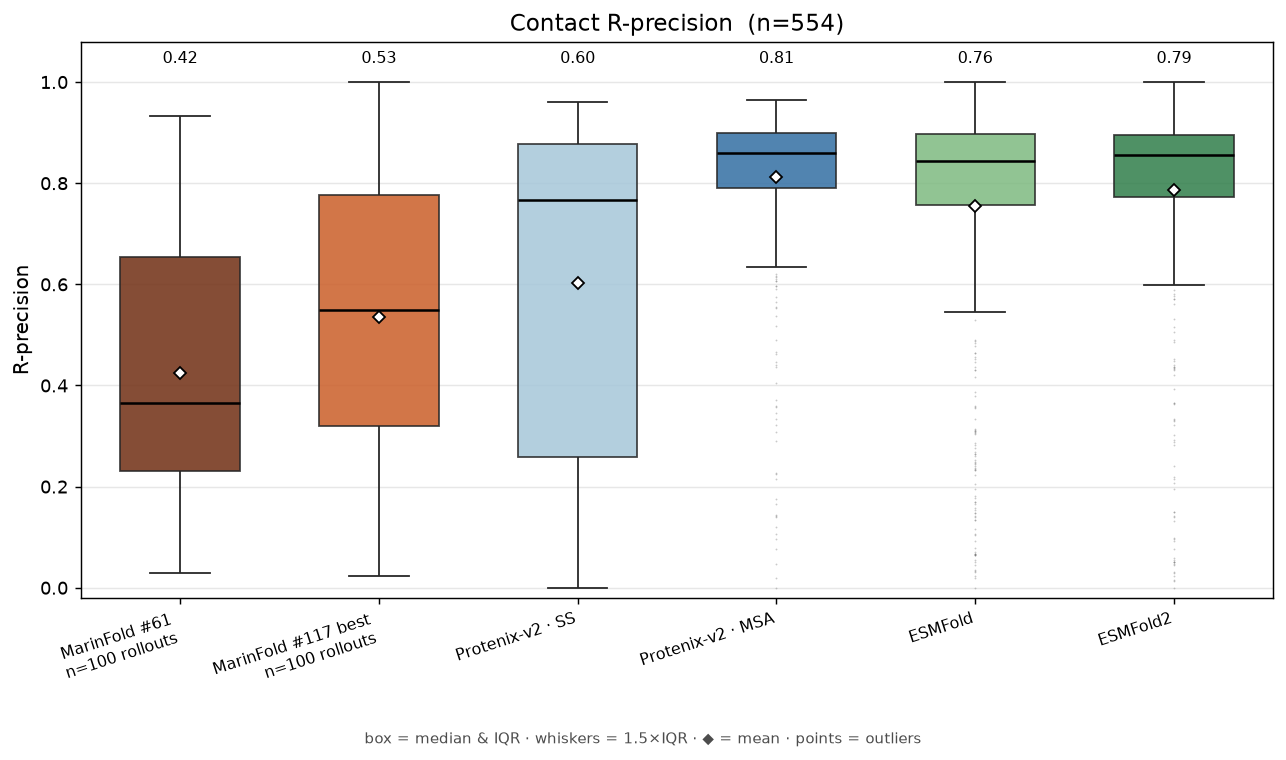
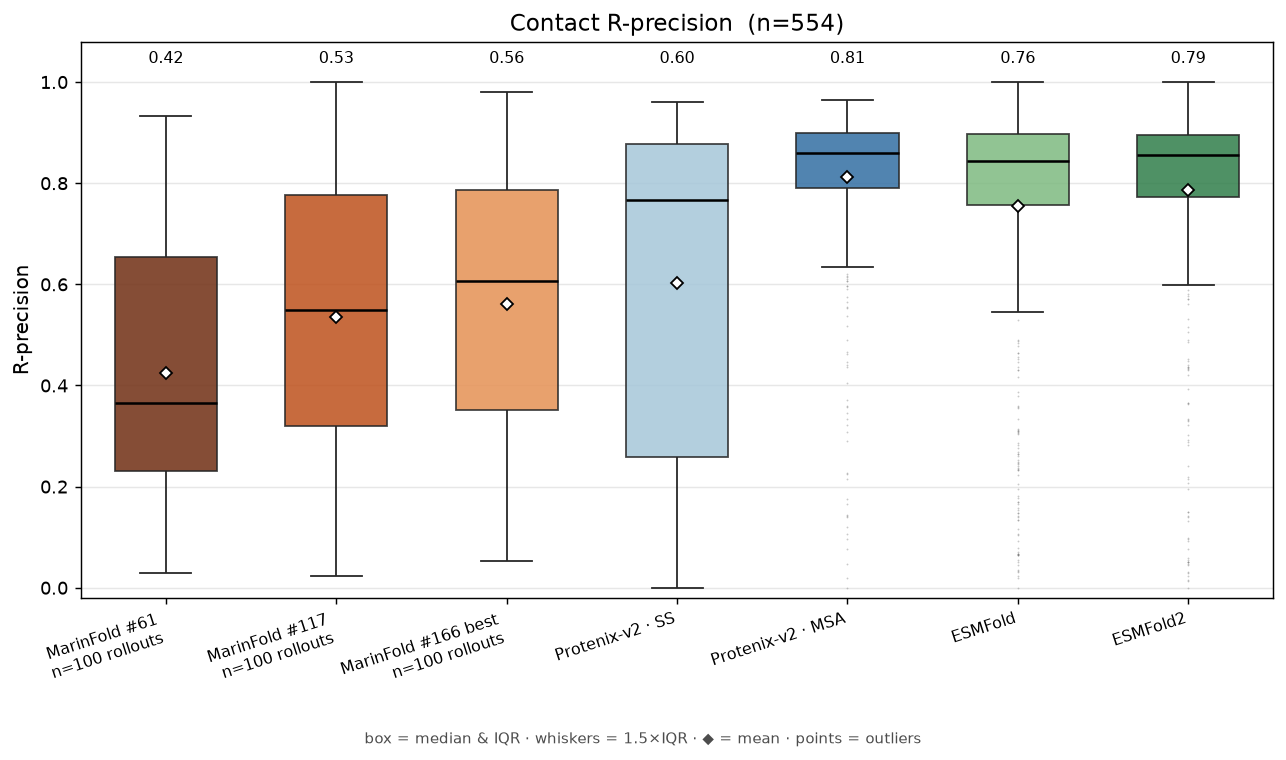
README: refresh the performance figure with #166
The headline figure stopped at #117 (0.535); #166's AA augmentation has since
taken the frontier at 0.562. Adds it as a third MarinFold bar rather than
replacing #117 — 0.42 -> 0.53 -> 0.56 against the structure predictors is the
progress story the figure exists to tell.

plot_where_we_stand.py now takes several --rollout-csv paths, since the newest
checkpoint's per-protein rows live in whichever experiment scored it (here
exp166's), and its docstring says what to do when a new model takes the
frontier. AUC headline updated 0.932 -> 0.939, which puts us 0.002 behind
Protenix-v2+MSA.

Also fixes the default-model claims this invalidated, and two that were
already wrong: the Try-it-out section named exp120 as the default while the
CLI text below it named exp75, and a note said #117 "has not been exported to
the bucket yet" -- it has, and #166 is now the default. The rollout example
pointed at exp75.

exp82's 2026-07-27 refresh section is a dated record, so its table is left as
written with a note that the committed figure has since gained the #166 bar.

The three Colab bullets still say exp75 because the notebooks still pin exp75;
changing the text without the notebooks would make the README wrong. Dropped
only the stale "our current best" from the first one.

diff --git a/experiments/exp82_evals_contacts_v1_contact_prediction/plot_where_we_stand.py b/experiments/exp82_evals_contacts_v1_contact_prediction/plot_where_we_stand.py
@@ -5,17 +5,25 @@
 
 A single aggregate boxplot panel (range = all, sep>=6) putting MarinFold's best
 inference — **rollout+resample**, n=100 — next to the structure predictors, for
-two checkpoints: the #61/#75 sweep winner the project has been quoting, and the
-current best model from Eric's #117 sweep.
+three checkpoints: the #61/#75 sweep winner the project quoted first, the #117
+sweep best, and #166's AA-augmentation continue-train of #117 (the current
+best). Three bars rather than one because the trajectory is the point.
 
-Reads exp89's committed per-protein table for the structure predictors and the
-rollout rows emitted by ``build_rollout_rows.py`` for the MarinFold bars; both
-are scored by exp89's metric implementation, so every bar is comparable.
+Reads exp89's committed per-protein table for the structure predictors and
+per-protein rollout rows for the MarinFold bars — from this experiment's
+``build_rollout_rows.py`` output and from whichever experiment scored a newer
+checkpoint (``--rollout-csv`` takes several). Everything is scored by exp89's
+metric implementation, so every bar is comparable.
 Style follows exp89 ``plot.py``'s ``plot_single_panel``.
+
+**When a new model takes the frontier**, add its rows CSV to ``--rollout-csv``
+and one entry to ``CONFIGS`` — the model string is a value inside that file.
+Keep the older bars: this figure is the project README's progress story.
 
     uv run python plot_where_we_stand.py \
         --exp89-csv <exp89>/data/contact_precision_all.csv \
         --rollout-csv data/where_we_stand_rows.csv.gz \
+                      <exp166>/data/exp166_rows.csv.gz \
         --out plots/where_we_stand_rprecision.png
 """
 from __future__ import annotations
@@ -38,7 +46,9 @@ CONFIGS = [
     ("marinfold-cv1-exp75-rollout", "single_seq", "lm",
      "MarinFold #61\nn=100 rollouts", "#7f2704"),
     ("marinfold-cv1-exp117-rollout", "single_seq", "lm",
-     "MarinFold #117 best\nn=100 rollouts", "#e6550d"),
+     "MarinFold #117\nn=100 rollouts", "#d94801"),
+    ("exp166_aaaug_step35679", "single_seq", "lm",
+     "MarinFold #166 best\nn=100 rollouts", "#fd8d3c"),
     ("protenix-v2", "single_seq", "structure", "Protenix-v2 · SS", "#9ecae1"),
     ("protenix-v2", "msa", "structure", "Protenix-v2 · MSA", "#2171b5"),
     ("esmfold", "single_seq", "structure", "ESMFold", "#74c476"),
@@ -51,8 +61,9 @@ def _vals(df, model, mode, predictor):
     return s["precision"].to_numpy(dtype=float)
 
 
-def main(exp89_csv: Path, rollout_csv: Path, out: Path) -> None:
-    df = pd.concat([pd.read_csv(exp89_csv), pd.read_csv(rollout_csv)], ignore_index=True)
+def main(exp89_csv: Path, rollout_csvs: list[Path], out: Path) -> None:
+    df = pd.concat([pd.read_csv(exp89_csv)] + [pd.read_csv(c) for c in rollout_csvs],
+                   ignore_index=True)
     sub = df[(df["cut"] == "R") & (df["range"] == "all")]
     labels = [c[3] for c in CONFIGS]
     palette = {c[3]: c[4] for c in CONFIGS}
@@ -93,11 +104,13 @@ def main(exp89_csv: Path, rollout_csv: Path, out: Path) -> None:
     fig.savefig(out, dpi=130, bbox_inches="tight")
     out.with_suffix(out.suffix + ".meta.json").write_text(json.dumps(
         {"script": "plot_where_we_stand.py",
-         "args": ["--exp89-csv", str(exp89_csv), "--rollout-csv", str(rollout_csv)],
+         "args": ["--exp89-csv", str(exp89_csv),
+                  "--rollout-csv", *[str(c) for c in rollout_csvs]],
          "means": means, "n": counts,
          "caption": ("Contact R-precision (all sep>=6, n=554): MarinFold rollout+resample "
-                     "(n=100, temperature 1.0 / top-p 0.95 / no top-k) for the #61/#75 model "
-                     "and the current #117 sweep best, vs Protenix-v2 / ESMFold / ESMFold2.")},
+                     "(n=100, temperature 1.0 / top-p 0.95 / no top-k) for the #61/#75 model, "
+                     "the #117 sweep best and the current best #166, vs "
+                     "Protenix-v2 / ESMFold / ESMFold2.")},
         indent=2))
     print(f"wrote {out}  means: " + ", ".join(f"{k.replace(chr(10), ' ')}={v:.3f}"
                                               for k, v in means.items()))
@@ -106,7 +119,8 @@ def main(exp89_csv: Path, rollout_csv: Path, out: Path) -> None:
 if __name__ == "__main__":
     ap = argparse.ArgumentParser()
     ap.add_argument("--exp89-csv", type=Path, required=True)
-    ap.add_argument("--rollout-csv", type=Path, required=True)
+    ap.add_argument("--rollout-csv", type=Path, nargs="+", required=True,
+                    help="one or more per-protein rollout rows CSVs (concatenated)")
     ap.add_argument("--out", type=Path, required=True)
     args = ap.parse_args()
     main(args.exp89_csv, args.rollout_csv, args.out)

diff --git a/README.md b/README.md
@@ -13,24 +13,22 @@ We welcome collaborators! If you would like to discuss or contribute, join the [
 
 Here we are prompting with the amino acid sequence and predicting residue/residue contacts.
 
-<img src="experiments/exp82_evals_contacts_v1_contact_prediction/plots/where_we_stand_rprecision.png" alt="Contact R-precision: MarinFold #61 and #117-best n=100 rollouts vs Protenix-v2 / ESMFold / ESMFold2 (n=554)" width="70%">
+<img src="experiments/exp82_evals_contacts_v1_contact_prediction/plots/where_we_stand_rprecision.png" alt="Contact R-precision: MarinFold #61, #117 and #166-best n=100 rollouts vs Protenix-v2 / ESMFold / ESMFold2 (n=554)" width="70%">
 
-Both MarinFold bars use our best test-time inference — 100 resampled rollouts, voted per residue pair (see [exp82](experiments/exp82_evals_contacts_v1_contact_prediction/README.md)). `#61` is the model from [#61](https://github.com/Open-Athena/MarinFold/issues/61)/[#75](https://github.com/Open-Athena/MarinFold/issues/75) (eval loss 2.76); `#117 best` is the current best from [@eric-czech](https://github.com/eric-czech)'s [#117](https://github.com/Open-Athena/MarinFold/issues/117) tuning sweep (eval loss 2.70).
+All three MarinFold bars use our best test-time inference — 100 resampled rollouts, voted per residue pair (see [exp82](experiments/exp82_evals_contacts_v1_contact_prediction/README.md)) — so the differences between them are the model, not the decoding. `#61` is the model from [#61](https://github.com/Open-Athena/MarinFold/issues/61)/[#75](https://github.com/Open-Athena/MarinFold/issues/75) (eval loss 2.76); `#117` is [@eric-czech](https://github.com/eric-czech)'s [#117](https://github.com/Open-Athena/MarinFold/issues/117) tuning-sweep winner (2.70); `#166 best` is the current best, his [#166](https://github.com/Open-Athena/MarinFold/issues/166) amino-acid augmentation continued from #117 (2.66), which improves on its own initialization by a paired **+0.028** and is now the default model.
 
-R-precision is a top-K metric. On **AUC** over the whole contact map, `#117 best` reaches 0.932 — second only to Protenix-v2 with an MSA (0.941), and above ESMFold2 (0.923).
+R-precision is a top-K metric. On **AUC** over the whole contact map, `#166 best` reaches 0.939 — second only to Protenix-v2 with an MSA (0.941), and above ESMFold2 (0.923).
+
+The progression tracked over time, with every number's source, is in [exp180](experiments/exp180_evals_contacts_v1_progress_over_time/README.md).
 
 ## Try it out
 
 MarinFold predicts a **residue–residue contact map** from a single sequence —
 no MSA, no template, no structure. The default model in
-[`MODELS.yaml`](marinfold/marinfold/MODELS.yaml) is `contacts-v1-exp120-1.5B`,
-a continue-train of the [#61](https://github.com/Open-Athena/MarinFold/issues/61)
-model from [#120](https://github.com/Open-Athena/MarinFold/issues/120).
-
-> **Note:** the `#117 best` model in *Current performance* above is
-> substantially more accurate than the published default, but has not been
-> exported to the bucket yet — see
-> [#117](https://github.com/Open-Athena/MarinFold/issues/117).
+[`MODELS.yaml`](marinfold/marinfold/MODELS.yaml) is `contacts-v1-exp166-1.5B` —
+the `#166 best` bar in *Current performance* above, an amino-acid augmentation
+continue-train of [#117](https://github.com/Open-Athena/MarinFold/issues/117)
+from [#166](https://github.com/Open-Athena/MarinFold/issues/166).
 
 ### GPU example
 
@@ -60,12 +58,14 @@ uv run marinfold infer \
 
 `--out` holds one `P(contact)` score per residue pair; `--out-plots` is the
 contact-map heatmap. The first run downloads our 1.5B contacts-v1 model
-(~6 gb). Omitting `--model` uses the default (`contacts-v1-exp75-1.5B`); the older
-distogram models are still available as `--model 1B` / `1.5B` (see below).
+(~6 gb). Omitting `--model` uses the default (`contacts-v1-exp166-1.5B`); the
+earlier contacts-v1 checkpoints are available as `--model contacts-v1-exp117-1.5B`
+/ `contacts-v1-exp120-1.5B` / `contacts-v1-exp75-1.5B`, and the older distogram
+models as `--model 1B` / `1.5B` (see below).
 
 The command above uses the fast **`pairwise`** readout (~0.3 s/protein). Our
-**best** inference — the `MarinFold #61 n=100 rollouts` bar in *Current
-performance* — is exp82's **`rollout`** recipe: vote over 100 sampled
+**best** inference — what every MarinFold bar in *Current performance* uses —
+is exp82's **`rollout`** recipe: vote over 100 sampled
 contact-section completions (each from a freshly resampled document) with a
 pairwise tie-break. It is ~150× slower (~50 s/protein on a GPU) but sharpens the
 top-ranked contacts. Run it via the per-impl driver (the top-level CLI keeps its
@@ -73,7 +73,7 @@ surface narrow):
 
 ```bash
 uv run contacts-v1 infer \
-    --backend vllm --model contacts-v1-exp75-1.5B \
+    --backend vllm --model contacts-v1-exp166-1.5B \
     --method rollout --n-rollouts 100 \
     --input-sequence $SEQUENCE \
     --out ~/prediction.json --out-plots ~/contact_map.pdf
@@ -222,7 +222,7 @@ uv run contacts-and-distances-v1 evaluate \
 
 ## Colab Notebooks
 
-- [Inference Example 1](https://colab.research.google.com/github/Open-Athena/MarinFold/blob/main/notebooks/inference_example1.ipynb) — run our current best `contacts-v1-exp75-1.5B` model on a structure from RCSB and plot the ground-truth vs predicted contact map (choose `pairwise` or `rollout` inference).
+- [Inference Example 1](https://colab.research.google.com/github/Open-Athena/MarinFold/blob/main/notebooks/inference_example1.ipynb) — run the `contacts-v1-exp75-1.5B` model on a structure from RCSB and plot the ground-truth vs predicted contact map (choose `pairwise` or `rollout` inference).
 - [Fold From Contacts 1](https://colab.research.google.com/github/Open-Athena/MarinFold/blob/main/notebooks/fold_from_contacts1.ipynb) — a classical "approximate AlphaFold" (Floyd–Warshall + MDS) that folds a 3D backbone from predicted contacts, following [sokrypton/ml4me](https://colab.research.google.com/github/sokrypton/ml4me/blob/main/AlphaFold_approx_v2.ipynb) but sourcing contacts from `contacts-v1-exp75-1.5B` (from sequence alone) instead of the MSA. Takes any RCSB PDB id (MSA built via the ColabFold MMseqs2 API) or an AlphaFold-DB UniProt id; compares MarinFold vs MSA-coevolution contact maps side by side, and toggles which one drives the fold (with a py3Dmol overlay vs the reference). Ready-made examples plus a `custom` option for any PDB/UniProt id; the default `1R69` (434 repressor) has a deep MSA, and `1QYS` (Top7) is a designed protein with a nearly empty MSA.
 - [Inspect Data 1](https://colab.research.google.com/github/Open-Athena/MarinFold/blob/main/notebooks/inspect_data1.ipynb) — browse legacy `timodonnell/protein-docs` subsets plus newer `open-athena/MarinFold` bucket parquet data, with sample documents and parquet schema previews.
 - [Short-Document Bias](https://colab.research.google.com/github/Open-Athena/MarinFold/blob/main/notebooks/short_document_bias.ipynb) — does `contacts-v1-exp75-1.5B` under-generate contacts / emit too-short rollout documents vs the ground truth? ([issue #142](https://github.com/Open-Athena/MarinFold/issues/142)) Part A reproduces the published 12-protein × 200-rollout finding (no GPU); Part B regenerates rollouts on a GPU. The shortfall is mild-to-moderate (`pred/gt ≈ 0.70`), never truncated (100% finish), and tracks difficulty (`corr(pred/gt, recall) = +0.84`) — a symptom of the model being unsure of the fold, not a decoding bug.

diff --git a/experiments/exp82_evals_contacts_v1_contact_prediction/README.md b/experiments/exp82_evals_contacts_v1_contact_prediction/README.md
@@ -423,6 +423,18 @@ map about as well as a structure predictor; what it lacks is the ability to
 concentrate confidence into the top L / top R pairs. That is a different failure
 than "doesn't know the fold", and points at calibration rather than capacity.
 
+> **The committed figure now has a third MarinFold bar.** The table above is
+> this session's record and is left as written. `plot_where_we_stand.py` has
+> since been re-run with a second rows CSV to add
+> [#166](https://github.com/Open-Athena/MarinFold/issues/166) (R 0.562, AUC
+> 0.939 — the current best, and the project README's headline), whose
+> per-protein rows live in
+> [`../exp166_models_contacts_v1_aa_augmentation/data/exp166_rows.csv.gz`](../exp166_models_contacts_v1_aa_augmentation/data/exp166_rows.csv.gz).
+> `--rollout-csv` takes several paths for exactly this; the script's docstring
+> says what to do when a new model takes the frontier. The longitudinal version
+> of this comparison is
+> [exp180](../exp180_evals_contacts_v1_progress_over_time/README.md).
+
 **Pipeline** — [`score_rollout_vllm.py`](score_rollout_vllm.py) (single local GPU)
 or [`dispatch_rollout_eval_cw.py`](dispatch_rollout_eval_cw.py) +
 [`score_rollout_worker.py`](score_rollout_worker.py) (12 single-H100
